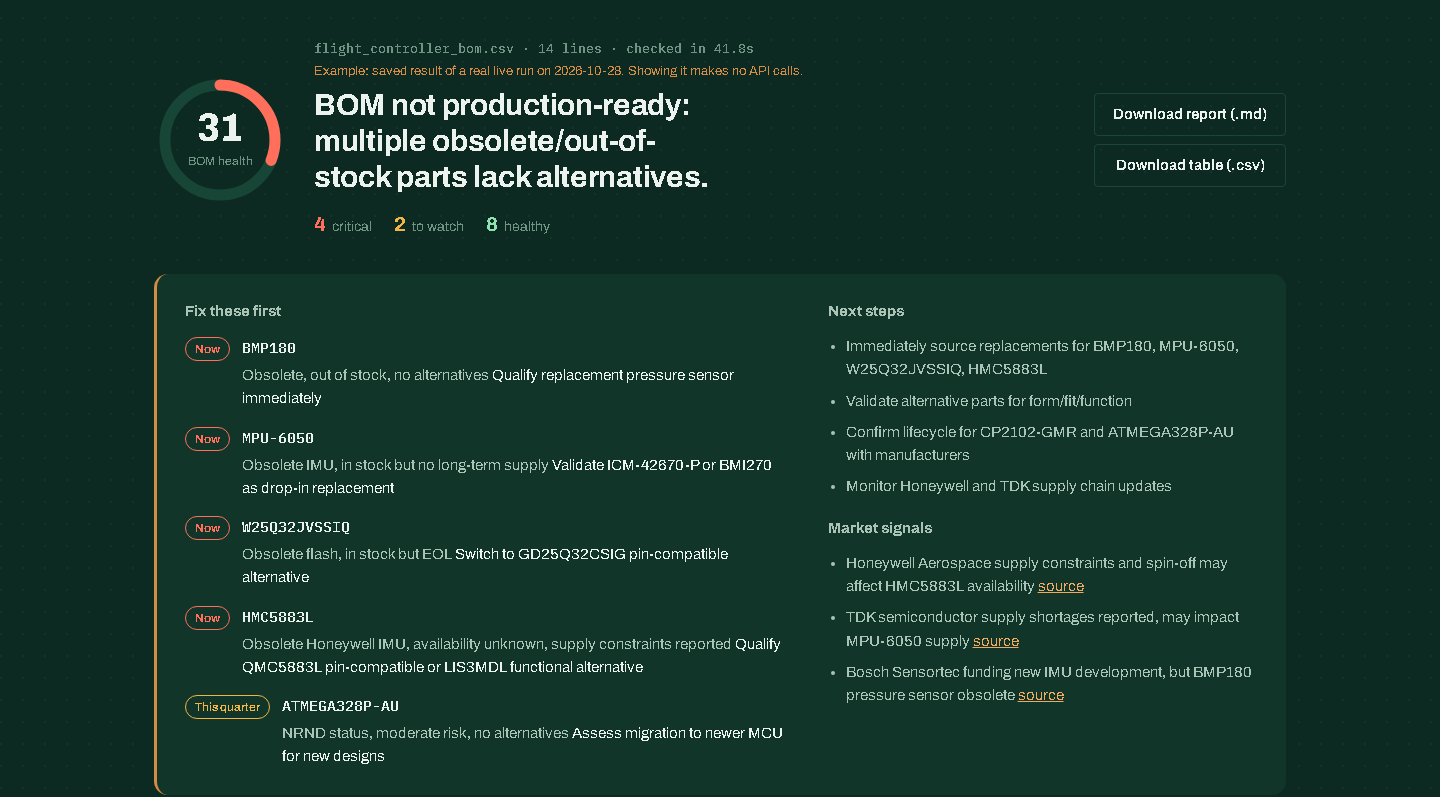
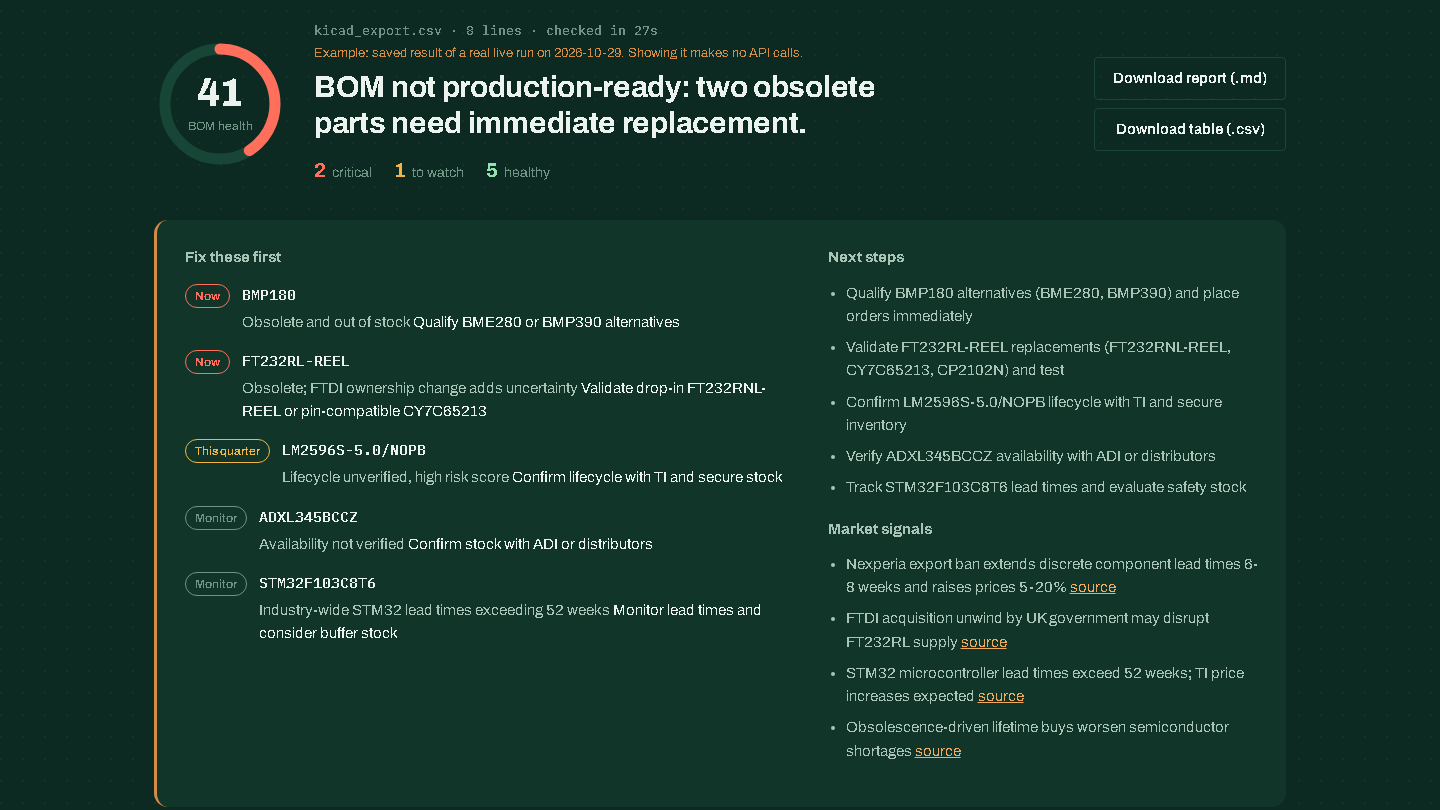
README: How to test, screenshots and results from a live KiCad demo run

diff --git a/README.md b/README.md
@@ -14,6 +14,12 @@ Built for the Nebius x NVIDIA Global AI Hackathon (Best Apps and Agents track), 
 
 > The home page opens on a saved report from a real live run, so judges see the full result instantly and it costs nothing to show. Live scans on the public demo need an access code (ask me, or run it yourself with your own keys, below) and are capped at 30 rows per BOM and 20 scans a day. The free instance sleeps when idle, so the first visit can take about 50 seconds to wake up; a live scan of the sample BOM takes 30–60 seconds.
 
+## How to test
+
+1. Open **https://bomguard.onrender.com**. It opens on a saved report from a real live run, so you can explore it straight away (click any part for its sources). The first visit may take about 50 seconds while the free instance wakes up.
+2. To run a live scan, enter the access code **`[ACCESS CODE]`** above the copper button.
+3. Click **Check the sample drone flight-controller BOM**, or drop in one of the files from [`samples/demo/`](samples/demo) (KiCad, Eagle and a hand-made list). A scan takes 20–60 seconds.
+
 ## The problem
 
 A hardware product is built from 50–300 parts. If one of them goes end-of-life or out of stock after the design is frozen, the team faces a board respin, a delayed launch and broker prices with counterfeit risk. Large companies pay for enterprise component-intelligence tools. Startups, small manufacturers and student teams check distributor pages by hand, one part at a time, and still miss things.
@@ -22,23 +28,23 @@ BOMGuard does that check in about a minute, for the whole BOM, with sources.
 
 ## What it finds
 
-On the sample drone flight-controller BOM (`samples/flight_controller_bom.csv`), a live run reads 135 sources from 32 searches:
+A real live run on `samples/demo/kicad_export.csv`, an unedited KiCad BOM export (27 seconds):
 
 ![Report summary](docs/report.png)
 
 | Part | Result | Evidence shown in the table |
 |---|---|---|
-| MPU-6050 (IMU) | **Obsolete** | DigiKey: "Part Status Obsolete" |
-| BMP180 (pressure sensor) | **Obsolete**, out of stock | DigiKey: "Part Status. Obsolete" |
-| W25Q32JVSSIQ (flash) | **Obsolete**, replacements GD25Q32CSIG, IS25CQ032 | Arrow: "Part Status. Obsolete" |
-| HMC5883L (magnetometer) | **Obsolete**, replacement QMC5883L (pin-compatible) | "…this part will not be available for shipment." |
-| ATMEGA328P-AU (MCU) | **NRND** | Matches Microchip's own product page |
-| CP2102-GMR (USB-UART) | **Unknown**: sources disagree | DigiKey says NRND, Arrow says Active |
-| 6 other ICs | Active | DigiKey / Arrow / Octopart status fields |
+| BMP180 (pressure sensor) | **Obsolete**, out of stock; alternatives BME280, BMP390 | DigiKey: "Part Status Obsolete" |
+| FT232RL-REEL (USB-UART) | **Obsolete**; FT232RNL-REEL suggested as drop-in | DigiKey: "FT232RL-REEL is Obsolete and no longer manufactured."; Octopart agrees |
+| LM2596S-5.0/NOPB (regulator) | **Unknown**, low confidence | Only one datasheet-mirror page gave a status, so it is not trusted |
+| STM32F103C8T6, ADXL345BCCZ, MCP2515 | Active | Arrow / DigiKey "Part Status" fields |
+| 100nF, 10k | Generic, skipped | No searches spent on passives |
 
 ![Parts table with the evidence behind each lifecycle verdict](docs/parts-table.png)
 
 Click any row to see every claim with its source link, the replacements with what an engineer must check, and every page that was read.
+
+The other demo files show the same behaviour: the Eagle export (semicolon-separated) flags MPU-6050 and HMC5883L as obsolete, and the hand-made part list with no manufacturer column checks out as active. Across every run we have done, MPU-6050, BMP180, HMC5883L and W25Q32JVSSIQ come back obsolete and critical. Parts close to the line, where distributor pages lag behind the manufacturer or disagree with each other, can differ between runs; BOMGuard shows that with a lower confidence label and the source behind each verdict, instead of hiding it.
 
 ## How it works
 
@@ -133,7 +139,7 @@ app/research.py   Tavily search wrappers with disk cache
 app/llm.py        Token Factory client, JSON extraction, per-tier usage counters
 app/mock.py       demo-data mode for UI work without keys
 static/           front end (vanilla HTML/CSS/JS)
-samples/          example BOM and a saved live run (example_report.json)
+samples/          sample BOM, saved live run (example_report.json), demo/ exports (KiCad, Eagle, hand-made)
 render.yaml       one-click Render deploy
 ```
 
